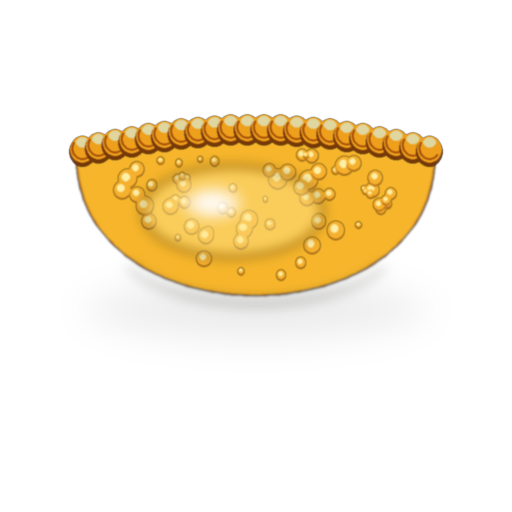
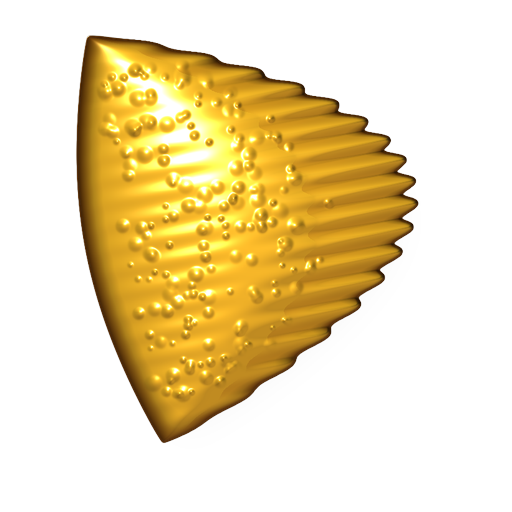
feat: empanada 3d vertical profesional con repulgue artesanal y textura frita dorada, conservando la empanada de comanda vacia

diff --git a/src/components/pos/ProductCard.tsx b/src/components/pos/ProductCard.tsx
@@ -27,9 +27,9 @@ export function ProductCard({ product, rate, onAdd }: { product: Product; rate: 
             }`}
           >
             {product.category === "Empanadas" || product.name.toLowerCase().includes("empanada") ? (
-              <Emoji3D name="empanada" size={36} spinOnHover />
+              <Emoji3D name="empanada" size={38} spinOnHover />
             ) : product.category === "Pastelitos" || product.name.toLowerCase().includes("pastelito") ? (
-              <Emoji3D name="pastelito" size={36} spinOnHover />
+              <Emoji3D name="pastelito" size={38} spinOnHover />
             ) : product.category === "Bebidas" || product.name.toLowerCase().includes("malta") ? (
               <Emoji3D name="malta" size={36} spinOnHover />
             ) : product.name.toLowerCase().includes("café") || product.name.toLowerCase().includes("cafe") ? (
